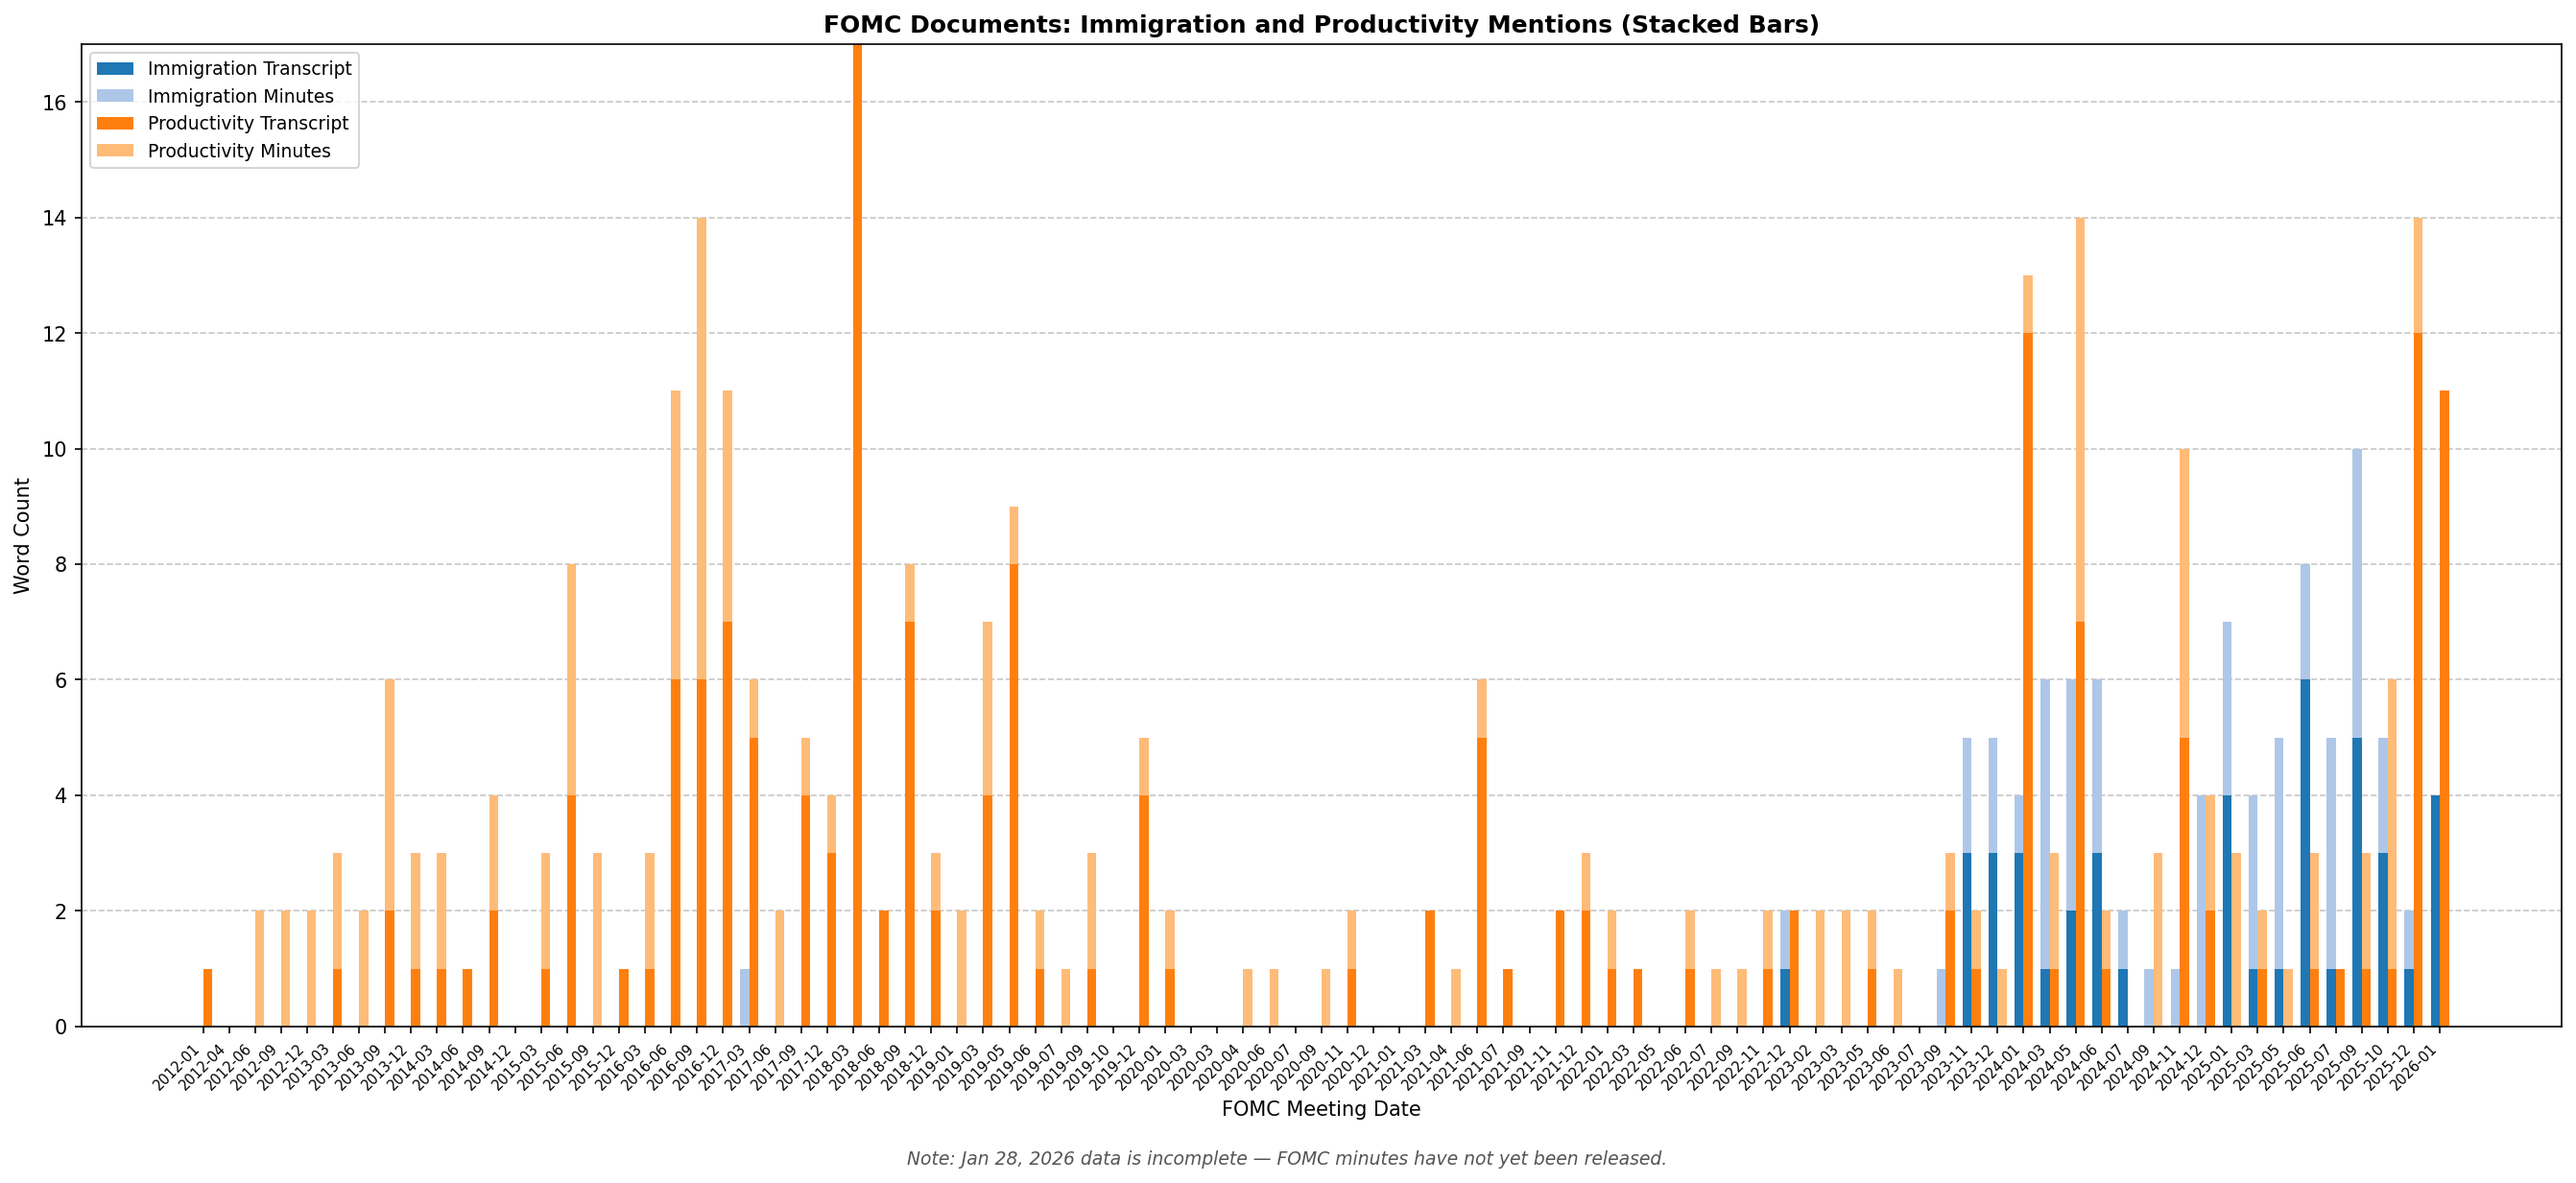
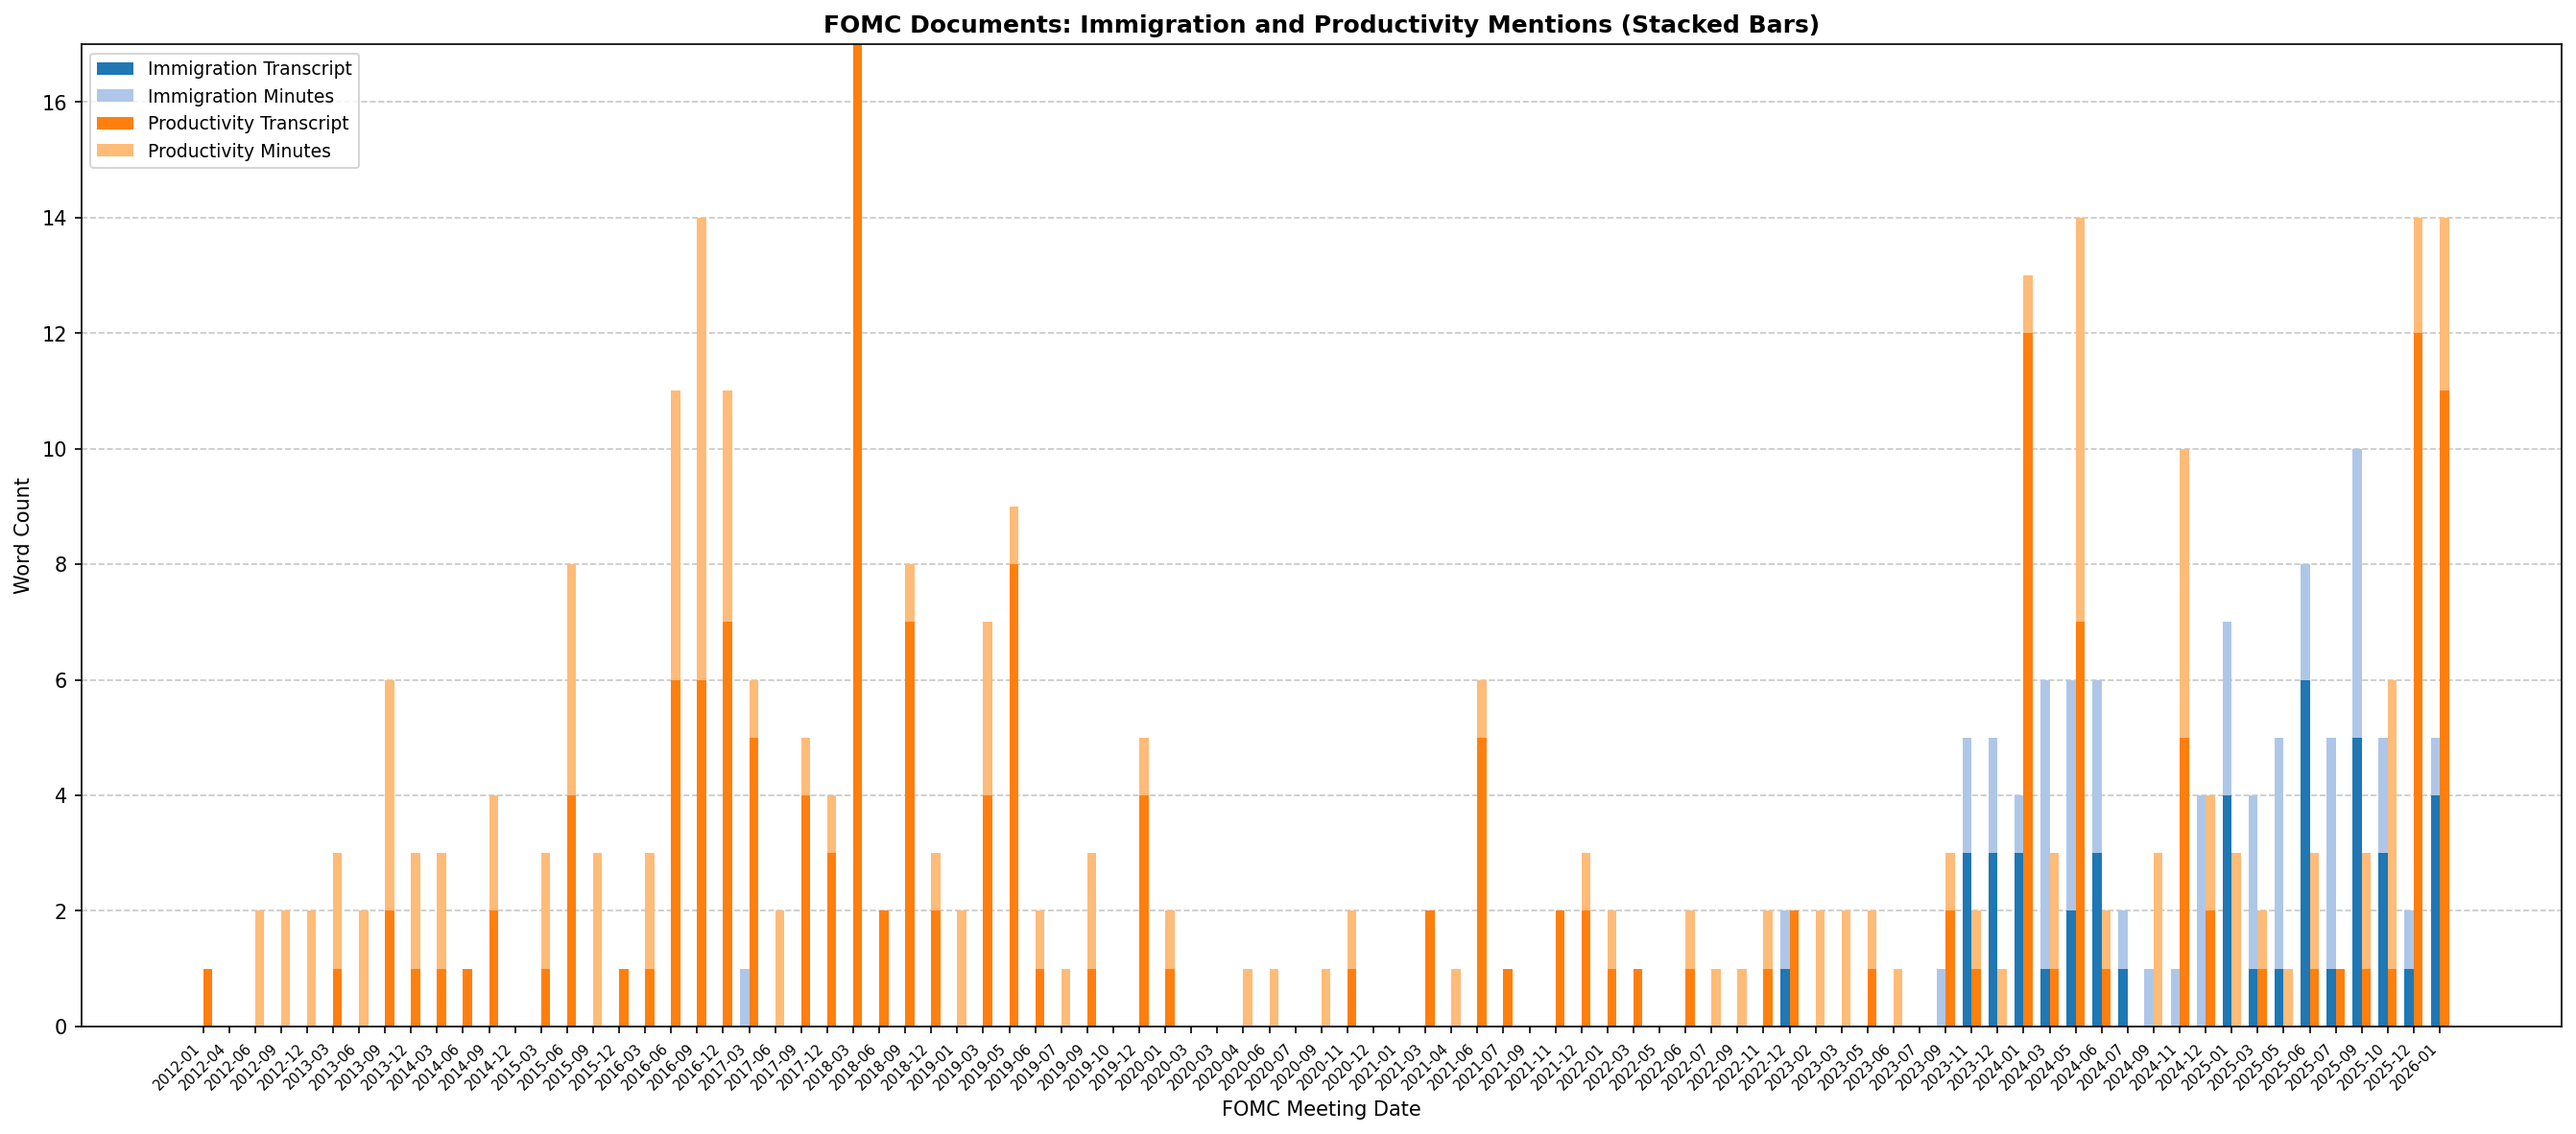
Refresh Jan 2026 minutes data and regenerate charts

diff --git a/src/create_visualization.py b/src/create_visualization.py
@@ -29,6 +29,7 @@ def load_data():
         'productivity_transcript': 0,
         'productivity_minutes': 0,
     })
+    minutes_dates = set()
 
     with open(INPUT_FILE, 'r') as f:
         reader = csv.DictReader(f)
@@ -36,8 +37,11 @@ def load_data():
             date = row['meeting_date']
             key = f"{row['word']}_{row['document_type']}"
             data[date][key] = int(row['count'])
+            if row['document_type'] == 'minutes':
+                minutes_dates.add(date)
 
     sorted_dates = sorted(data.keys())
+    latest_date = sorted_dates[-1] if sorted_dates else None
 
     return {
         'dates': sorted_dates,
@@ -45,6 +49,8 @@ def load_data():
         'immigration_minutes': [data[d]['immigration_minutes'] for d in sorted_dates],
         'productivity_transcript': [data[d]['productivity_transcript'] for d in sorted_dates],
         'productivity_minutes': [data[d]['productivity_minutes'] for d in sorted_dates],
+        'latest_date': latest_date,
+        'latest_missing_minutes': bool(latest_date and latest_date not in minutes_dates),
     }
 
 
@@ -124,12 +130,28 @@ def draw_line_chart(ax, data):
     ax.set_axisbelow(True)
 
 
-FOOTNOTE = "Note: Jan 28, 2026 data is incomplete — FOMC minutes have not yet been released."
+def format_human_date(date_str):
+    """Convert YYYY-MM-DD to 'Mon D, YYYY'."""
+    year, month, day = date_str.split('-')
+    month_names = [
+        'Jan', 'Feb', 'Mar', 'Apr', 'May', 'Jun',
+        'Jul', 'Aug', 'Sep', 'Oct', 'Nov', 'Dec'
+    ]
+    return f"{month_names[int(month) - 1]} {int(day)}, {year}"
 
 
-def add_footnote(fig):
-    """Add a footnote to the bottom of a figure."""
-    fig.text(0.5, -0.02, FOOTNOTE, ha='center', fontsize=9, fontstyle='italic', color='#555555')
+def build_footnote(data):
+    """Return a context-aware footnote when latest meeting minutes are unavailable."""
+    if data['latest_missing_minutes']:
+        latest = format_human_date(data['latest_date'])
+        return f"Note: {latest} data is incomplete - FOMC minutes have not yet been released."
+    return None
+
+
+def add_footnote(fig, footnote):
+    """Add a footnote to the bottom of a figure if needed."""
+    if footnote:
+        fig.text(0.5, -0.02, footnote, ha='center', fontsize=9, fontstyle='italic', color='#555555')
 
 
 def create_visualization():
@@ -144,6 +166,7 @@ def create_visualization():
 
     # Load data
     data = load_data()
+    footnote = build_footnote(data)
     OUTPUT_DIR.mkdir(parents=True, exist_ok=True)
 
     # 1. Combined chart (bar + line)
@@ -151,7 +174,7 @@ def create_visualization():
     draw_bar_chart(ax1, data)
     draw_line_chart(ax2, data)
     plt.tight_layout()
-    add_footnote(fig)
+    add_footnote(fig, footnote)
     combined_path = OUTPUT_DIR / "fomc_word_trends.png"
     plt.savefig(combined_path, dpi=150, bbox_inches='tight')
     plt.close()
@@ -161,7 +184,7 @@ def create_visualization():
     fig, ax = plt.subplots(figsize=(18, 8))
     draw_bar_chart(ax, data)
     plt.tight_layout()
-    add_footnote(fig)
+    add_footnote(fig, footnote)
     bars_path = OUTPUT_DIR / "fomc_word_trends_bars.png"
     plt.savefig(bars_path, dpi=150, bbox_inches='tight')
     plt.close()
@@ -171,7 +194,7 @@ def create_visualization():
     fig, ax = plt.subplots(figsize=(18, 6))
     draw_line_chart(ax, data)
     plt.tight_layout()
-    add_footnote(fig)
+    add_footnote(fig, footnote)
     lines_path = OUTPUT_DIR / "fomc_word_trends_lines.png"
     plt.savefig(lines_path, dpi=150, bbox_inches='tight')
     plt.close()

diff --git a/README.md b/README.md
@@ -78,4 +78,4 @@ press-minutes-parser/
 
 The analysis shows that "productivity" has been a consistent topic in FOMC discussions since 2012, while "immigration" was rarely mentioned until late 2023, with a significant increase in discussion frequency throughout 2024-2025.
 
-**Note:** The January 28, 2026 data point includes only the press conference transcript; the FOMC minutes have not yet been released.
+**Note:** The January 28, 2026 FOMC minutes are now included in this analysis.
